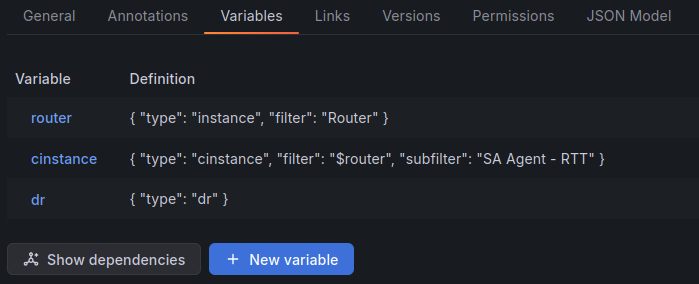
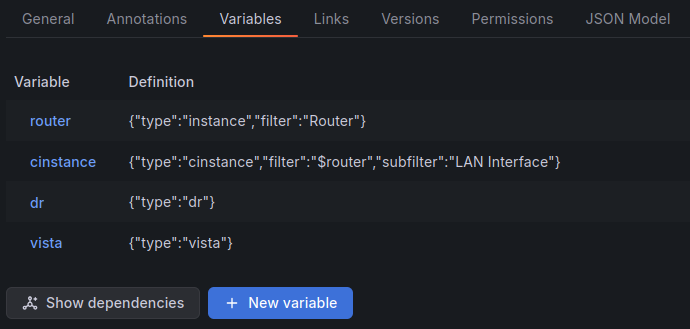
Query variable edition modification and readme update

diff --git a/src/VariableQueryEditor.tsx b/src/VariableQueryEditor.tsx
@@ -1,8 +1,6 @@
-import React, { useState } from 'react';
-import {MyVariableQuery} from './types';
-import {Field, TextArea, useStyles2} from '@grafana/ui';
-import {GrafanaTheme2} from "@grafana/data";
-import {css} from "@emotion/css";
+import React, {useState} from 'react';
+import {MyMetricFindQuery, MyVariableQuery} from './types';
+import {Combobox, ComboboxOption, Field, InlineField, Input} from '@grafana/ui';
 
 interface VariableQueryProps {
   query: MyVariableQuery;
@@ -20,49 +18,141 @@ function toMyVariableQuery(query: string | MyVariableQuery): MyVariableQuery {
   return {} as MyVariableQuery;
 }
 
-function getStyles(theme: GrafanaTheme2) {
-  return {
-    textarea: css({
-      whiteSpace: 'pre-wrap',
-      minHeight: theme.spacing(4),
-      height: 'auto',
-      overflow: 'auto',
-      padding: `${theme.spacing(0.75)} ${theme.spacing(1)}`,
-      width: 'inherit',
+const getType = (query: MyVariableQuery): string | undefined => {
+  if (query && query.query) {
+    return JSON.parse(query.query)['type'];
+  }
+  return undefined;
+}
 
-      [theme.breakpoints.down('sm')]: {
-        width: '100%',
-      },
-    }),
-  };
+const getFilter = (query: MyVariableQuery): string | undefined => {
+  const type = getType(query);
+  if ((type === 'instance' || type === 'cinstance') && query && query.query) {
+    return JSON.parse(query.query)['filter'];
+  }
+  return undefined;
+}
+
+const getSubfilter = (query: MyVariableQuery): string | undefined => {
+  const type = getType(query);
+  if (type === 'cinstance' && query && query.query) {
+    return JSON.parse(query.query)['subfilter'];
+  }
+  return undefined;
 }
 
 export const VariableQueryEditor = ({ query, onChange }: VariableQueryProps) => {
   const [localQuery, setState] = useState<MyVariableQuery>(toMyVariableQuery(query));
+  const type = getType(localQuery);
 
-  const handleChange = (event: React.FormEvent<HTMLTextAreaElement>) => {
+  if (!type) {
     const updated: MyVariableQuery = {
       ...localQuery,
-      query: event.currentTarget.value,
+      query: JSON.stringify({
+        type: 'dr',
+      }),
+    };
+    setState(updated);
+    onChange(updated);
+  }
+
+  const handleChangeType = (option: ComboboxOption) => {
+    const type = option.value || 'dr';
+    let filter = undefined;
+    let subfilter = undefined;
+
+    if (type !== 'dr' && type !== 'vista') {
+      filter = getFilter(localQuery);
+      if (type === 'cinstance') {
+        subfilter = getSubfilter(localQuery);
+      }
+    }
+
+    const updated: MyVariableQuery = {
+      ...localQuery,
+      query: JSON.stringify({
+        type: type,
+        filter: filter,
+        subfilter: subfilter,
+      }),
     };
     setState(updated);
     onChange(updated);
   };
 
-  const styles = useStyles2(getStyles);
+  const handleChangeFilter = (event: React.FormEvent<HTMLInputElement>) => {
+    updateField('filter', event.currentTarget.value);
+  };
+
+  const handleChangeSubFilter = (event: React.FormEvent<HTMLInputElement>) => {
+    updateField('subfilter', event.currentTarget.value);
+  };
+
+  const updateField = (name: string, value: string) => {
+    const updated: MyVariableQuery = {
+      ...localQuery,
+      query: JSON.stringify(updateQuery(localQuery, name, value)),
+    };
+    setState(updated);
+    onChange(updated);
+  };
+
+  const updateQuery = (query: MyVariableQuery, name: string, value : string): MyMetricFindQuery => {
+    const text = query && query.query ? query.query : '{}';
+    const obj = JSON.parse(text) as MyMetricFindQuery;
+    return {
+      ...obj,
+      [name]: value ? value : undefined,
+    };
+  }
+
+  const comboboxOptions: ComboboxOption[] = ['cinstance', 'dr', 'instance', 'vista'].map((value) => ({
+    value: value,
+  }));
 
   return (
-    <Field label="Object query">
-      <TextArea
-        rows={5}
-        cols={52}
-        type="text"
-        aria-label="Object query"
-        placeholder="Enter object query"
-        value={localQuery.query || ''}
-        onChange={handleChange}
-        className={styles.textarea}
-      />
-    </Field>
+    <Field label="Query elements">
+    <InlineField label="" transparent={true}>
+      <>
+      <Field
+        label="type"
+        description={<table><tr><td>cinstance</td><td>: to list all instances of a vista with a given parent instance</td></tr><tr><td>dr</td><td>: to list all display rates</td></tr><tr><td>instance</td><td>: to list all instances of a vista</td></tr><tr><td>vista</td><td>: to list all vistas</td></tr></table>}
+      >
+        <Combobox
+          onChange={handleChangeType}
+          options={comboboxOptions}
+          value={type || 'dr'}
+          width={30}
+        />
+      </Field>
+      <Field
+        label="filter" hidden={!type || type === 'dr' || type === 'vista'}
+        description={<table><tr><td>cinstance</td><td>: parent instance tag (basic tag), can be a variable e.g. $myvariable</td></tr><tr><td>instance</td><td>: vista name</td></tr></table>}
+      >
+        <Input
+          type="text"
+          placeholder="Enter filter"
+          value={getFilter(localQuery) || ''}
+          onChange={handleChangeFilter}
+          width={30}
+          hidden={!type || type === 'dr' || type === 'vista'}
+        />
+      </Field>
+      <Field
+        label="subfilter" hidden={!type || type === 'dr' || type === 'vista' || type === 'instance'}
+        description={<table><tr><td>cinstance</td><td>: vista name</td></tr></table>}
+      >
+        <Input
+          type="text"
+          placeholder="Enter subfilter"
+          value={getSubfilter(localQuery) || ''}
+          onChange={handleChangeSubFilter}
+          width={30}
+          hidden={!type || type === 'dr' || type === 'vista' || type === 'instance'}
+        />
+      </Field>
+      </>
+    </InlineField>
+      </Field>
   );
 };

diff --git a/README.md b/README.md
@@ -35,6 +35,9 @@ As `grafana-cli` installation is not supported, installation must be done manual
 
 ## Getting Started
 
+### Ativa Net Web Portal certificate
+Warning: the certificate of the Ativa Net Web Portal must be known by the host of the grafana server (e.g. by adding it to the host). If not, the message `Bad Gateway` may be returned when saving and testing the data source connection.
+
 ### Ativa Net API access configuration
 To access Ativa Net API, an Open ID Connect private client must be created into the Ativa Net Web Portal Administration interface,<br>
 the *Client ID* and *Client secret* are then used to configure the Ativa Net data source in Grafana.
@@ -103,44 +106,22 @@ Grafana variables are used to ease integration of topology objects, reduce devel
 
 The variable must have the type *Query* and point to a defined Ativa Net data source.
 
-A JSON structure must be entered to define the type of object to query. The *type* JSON node is mandatory to specify the type of object to query. *filter* and *subfilter* are optional nodes.
+The query is made of 3 elements: the *type* which is mandatory to specify the type of object to query, the *filter* and the *subfilter* are optional. 
 
 ![Variables](https://github.com/infovista/vistamart-datasource/blob/main/src/images/variables.png?raw=true)
 
-Here is a list of available JSON structures:
+Here is a list of available queries:
 
-* List all vistas from the topology:
-``{
-    "type":"vista"
-}``
-* List all instances from a vista:
-``{
-    "type":"instance"
-    "filter" : "<Vista Name>"
-}``
-* List all instances from a vista and a parent instance:
-``{
-    "type":"cinstance"
-    "filter" : "<instance>"
-    "subfilter" : "<Vista Name>"
-}``
-* List all available display rates from the topology:
-``{
-    "type":"dr"
-}``
+* List all vistas from the topology: select ``vista`` as the type
+* List all instances of a vista: select ``instance`` as the type and specify the vista name in the filter
+* List all instances of a vista with a given parent instance: select ``cinstance`` as the type and specify the parent instance and vista name respectively in the filter and subfilter, filter can be a variable (variables are prepended by the sign $)
+* List all available display rates from the topology: select ``dr`` as the type
 
 Example: Listing all "SA Agent - RTT" instances from an instance located in the "Router" Vista:
 
-``{
-    "type":"cinstance"
-    "filter" : "$router"
-    "subfilter" : "SA Agent - RTT"
-}``
+``{ "type": "cinstance", "filter": "$router", "subfilter": "SA Agent - RTT" }``
 
-Note : $router is another variable defined as ``{
-    "type":"instance"
-    "filter" : "Router"
-}``
+Note : $router is another variable defined as ``{ "type": "instance", "filter": "Router" }``
 
 Other examples:
 
@@ -148,13 +129,19 @@ Other examples:
 
 #### Usage
 
-A template variable can be used in the query panel by simply putting the name of the variable prepended by the $ sign (``$router`` for example)
+A template variable can be used in the query panel by simply putting the name of the variable prepended by the sign $ (``$router`` for example)
 
 Template variables appears automatically in the dashboard header with the data coming from the topology.
 
 ![Variables](https://github.com/infovista/vistamart-datasource/blob/main/src/images/variables_usage.png?raw=true)
 
-Note for "Multi-value" usage: If a template variable is defined as *Multi-value*, the variable must be formatted in JSON. For example, ``${router:json}``
+Note for "Multi-value" usage: If a template variable is defined as *Multi-value*, the variable must be formatted in JSON. For example, ``${router:json}`` in demo dashboard 'Interface Utilization Overview (multiple) - Demo'.
+
+### Using annotations in a dashboard
+
+Annotations can be used to display events on a dashboard. An annotation query is made of 3 mandatory elements to be selected: the *Vista*, the *Instance* and the *Indicator* of the events to be retrieved if any.
+
+![Annotations](https://github.com/infovista/vistamart-datasource/blob/main/src/images/annotations_editor.png?raw=true)
 
 ## Dashboard examples
 
